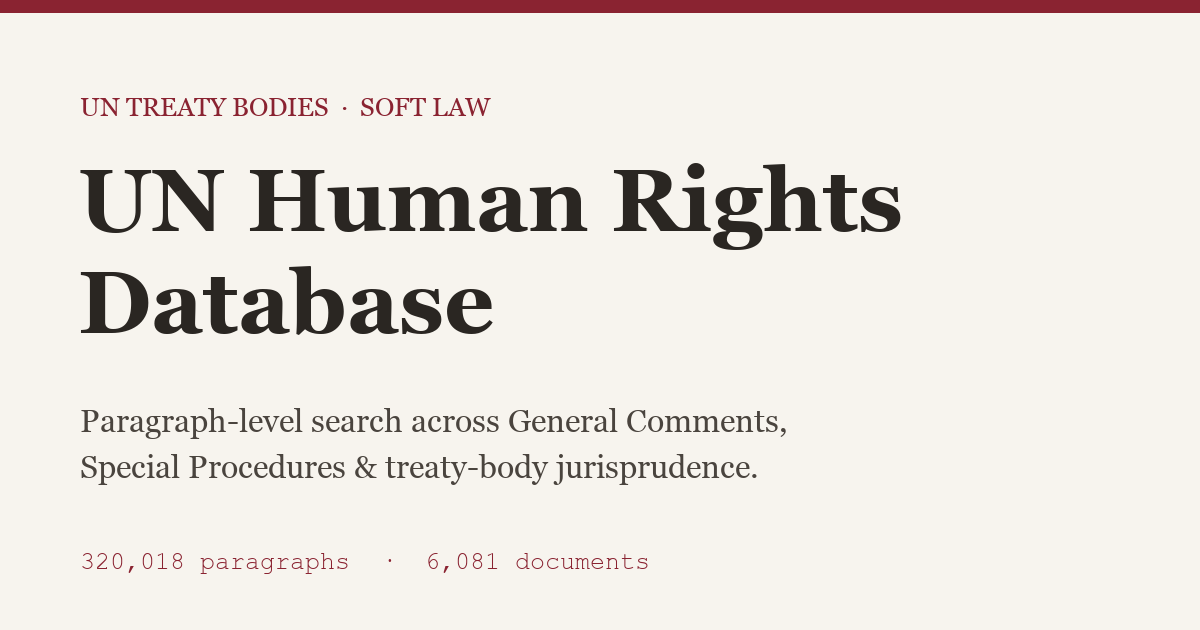
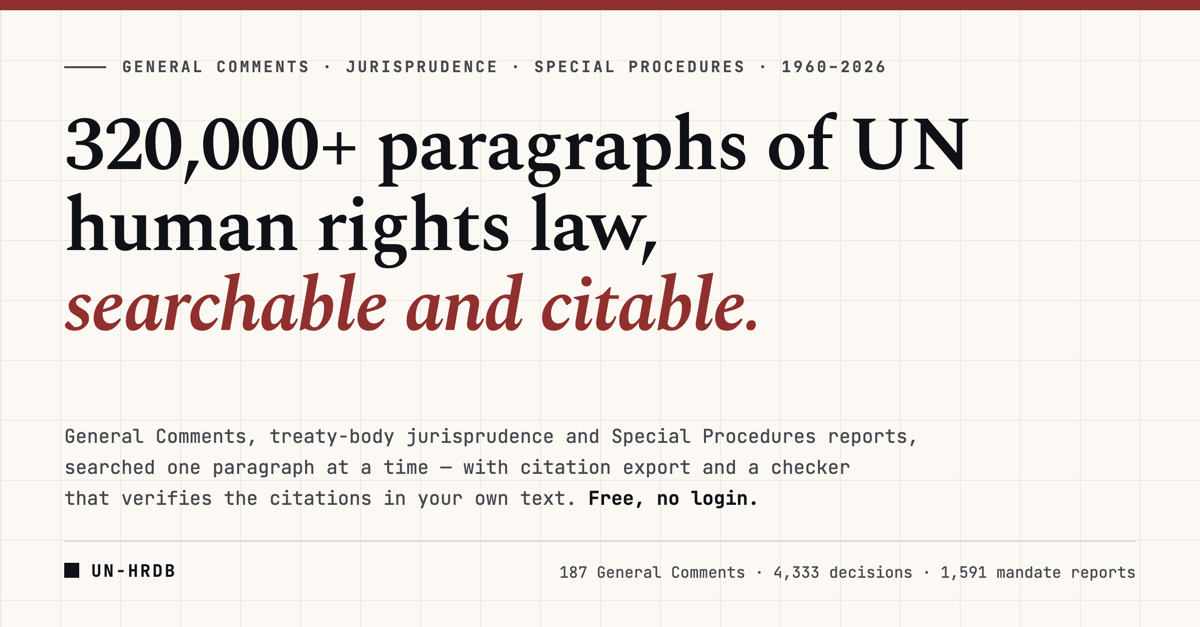
Social card: new og:image in the UHRI+ template, refreshed description
The old card was a September snapshot — 320,018 paragraphs, 6,081 documents —
and named neither the jurisprudence corpus nor the citation checker. The new
one follows the same template as the UHRI+ card so the two tools read as
siblings: garnet rule, graph-paper ground, Spectral headline with the last line
in italic garnet, JetBrains Mono body, mark and breakdown in the footer.

Headline says "320,000+" rather than the exact count, so it stays true as the
corpus grows. Declared og:image:height corrected from 630 to the card's actual
627. og:description now mentions jurisprudence and the checker.

diff --git a/docs/index.html b/docs/index.html
@@ -62,11 +62,11 @@
 <meta property="og:type" content="website" />
 <meta property="og:url" content="https://lszoszk.github.io/generalcomments/" />
 <meta property="og:title" content="UN Human Rights Database" />
-<meta property="og:description" content="Paragraph-level search across UN Treaty Body General Comments and Special Procedures, plus near-complete treaty-body jurisprudence." />
+<meta property="og:description" content="Paragraph-level search across UN Treaty Body General Comments, treaty-body jurisprudence and Special Procedures reports, with citation export and a checker that verifies the citations in your own text." />
 <meta property="og:site_name" content="UN Human Rights Database" />
 <meta property="og:image" content="https://lszoszk.github.io/generalcomments/assets/og-image.png" />
 <meta property="og:image:width" content="1200" />
-<meta property="og:image:height" content="630" />
+<meta property="og:image:height" content="627" />
 
 <!-- Twitter -->
 <meta name="twitter:card" content="summary_large_image" />
@@ -118,8 +118,8 @@
 }
 </script>
 
-<link rel="stylesheet" href="assets/tokens.css?v=20260917-e35eb2f" />
-<link rel="stylesheet" href="assets/app.css?v=20260917-e35eb2f" />
+<link rel="stylesheet" href="assets/tokens.css?v=20260922-9d5b638" />
+<link rel="stylesheet" href="assets/app.css?v=20260922-9d5b638" />
 
 <!-- Google Analytics 4 is loaded LAZILY, only after the visitor opts in
      via the consent banner — see initConsent()/loadAnalytics() in app.js.
@@ -1653,6 +1653,6 @@ ds = load_dataset(
 <div class="diff-tray" id="diff-tray" hidden></div>
 <div class="diff-modal" id="diff-modal" hidden></div>
 
-<script type="module" src="assets/app.js?v=20260917-e35eb2f"></script>
+<script type="module" src="assets/app.js?v=20260922-9d5b638"></script>
 </body>
 </html>
